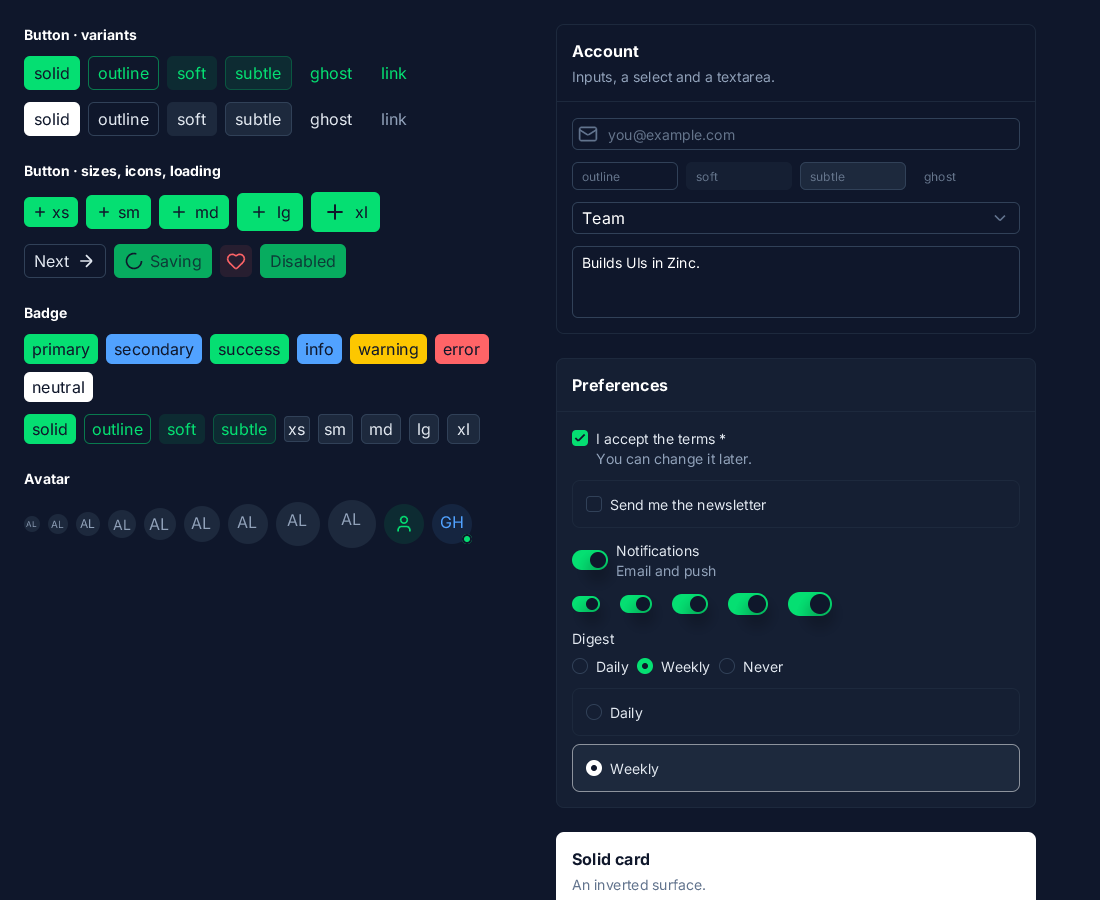
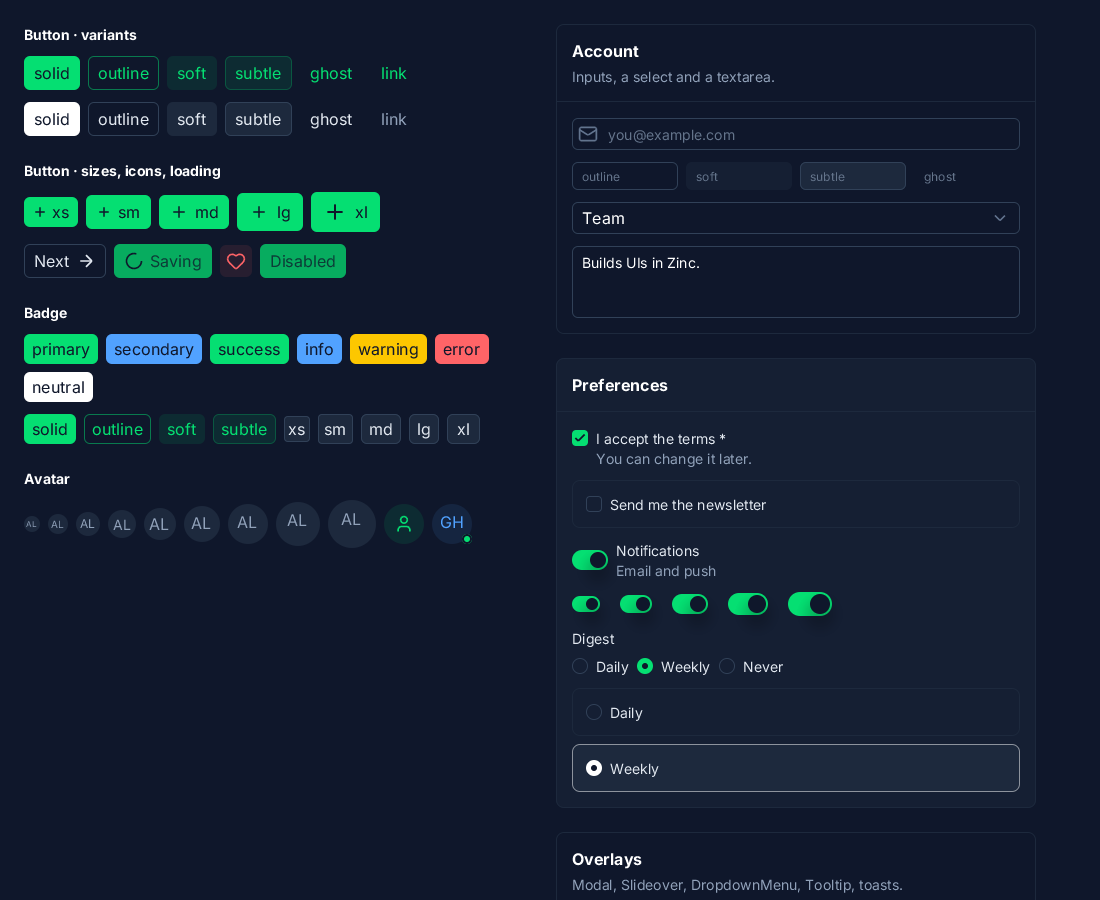
feat(ui): zinc:ui/nuxt overlays: Modal, Slideover, DropdownMenu, Tooltip, toasts

Changed region(s): [[0.4945, 0.9022, 0.9582, 1.0]]

diff --git a/lib/std/nuxt/overlays.tsx b/lib/std/nuxt/overlays.tsx
@@ -1,0 +1,173 @@
+/** @jsxHelpers ./host */
+// zinc:ui/nuxt, overlays (ZN-357.03): Modal, Slideover, DropdownMenu, Tooltip and toasts with Nuxt UI 4's look (docs/reports/nuxt-ui-research.md 3.13 to 3.17),
+// on zinc:ui's layers: each overlay stays mounted and toggles `hidden`, Escape and a press outside close it, a modal keeps the focus inside.
+import * as ui from 'zinc:ui';
+import { createNodeRef } from 'zinc:ui/solid';
+import { theme, hex, rounded } from './theme';
+import { rgb, buttonIconSize } from './variants';
+import { renderSlot } from './host';
+import { Button } from './controls';
+import { Icon } from 'zinc:icons';
+
+function shown(h: i32): boolean { const n = ui.inspectNode(h); return n !== null && !n.hidden; }
+function show(h: i32, on: boolean): void { if (h >= 0) ui.setNumber(h, 'hidden', on ? 0 : 1); }
+/** The node a component returned, through the fragment its caller may have wrapped it in. */
+function unwrap(h: i32): i32 { let k = h; for (;;) { const n = ui.inspectNode(k); if (n === null || n.tag !== ui.FRAGMENT || n.children.length !== 1) return k; k = n.children[0]; } }
+
+// ---------------------------------------------------------------- Modal, Slideover
+export type ModalProps = {
+  open: () => boolean; onUpdate: (open: boolean) => void; title?: string; description?: string; close?: boolean; dismissible?: boolean; fullscreen?: boolean;
+  class?: string; children?: () => i32; footer?: () => i32;
+};
+function renderHeader(p: ModalProps): i32 {
+  return <View class={`flex-row items-start gap-1.5 px-6 py-4 min-h-[64px] border-b border-${hex(theme().border)}`}>
+    <View class="flex-col grow">
+      <Show when={p.title !== undefined}><Text class={`font-semibold text-${hex(theme().textHighlighted)}`}>{p.title ?? ''}</Text></Show>
+      <Show when={p.description !== undefined}><Text class={`mt-1 text-sm text-${hex(theme().textMuted)}`}>{p.description ?? ''}</Text></Show>
+    </View>
+    <Show when={p.close ?? true}><Button icon="x" color="neutral" variant="ghost" size="md" onClick={() => p.onUpdate(false)} /></Show>
+  </View>;
+}
+/** Nuxt UI's UModal: a 512 px panel over the page dimmed with bg-elevated/75; Escape, a press outside (dismissible) and the close button ask onUpdate(false). */
+export function Modal(p: ModalProps): i32 {
+  const screen = createNodeRef(), panel = createNodeRef();
+  const ask = (): void => { if (p.dismissible ?? true) p.onUpdate(false); };
+  const full = p.fullscreen ?? false;
+  const node = <View ref={screen} class={`absolute left-0 top-0 right-0 bottom-0 ${full ? '' : 'items-center justify-center p-4'}`} hidden={p.open() ? 0 : 1}>
+    <View ref={panel} class={`flex-col bg-${hex(theme().bg)} ${full ? 'w-full h-full' : 'w-[512px] ' + rounded('lg') + ' shadow-lg border border-' + hex(theme().border)} ${p.class ?? ''}`}>
+      {renderHeader(p)}
+      <View class="flex-col p-6 gap-3">{renderSlot(p.children)}</View>
+      <Show when={p.footer !== undefined}><View class={`flex-row items-center justify-end gap-1.5 px-6 py-4 border-t border-${hex(theme().border)}`}>{renderSlot(p.footer)}</View></Show>
+    </View>
+  </View>;
+  ui.openLayer(screen.node, { priority: 200, modal: true, backdrop: rgb(theme().bgElevated), backdropAlpha: 191 });
+  ui.focusScope(screen.node, { trap: true, restore: true, autoFocus: true });
+  ui.onDismiss(screen.node, ask);
+  ui.onOutsidePointer(panel.node, (e: ui.PointerEvent) => ask());
+  return node;
+}
+
+export type SlideoverProps = {
+  open: () => boolean; onUpdate: (open: boolean) => void; title?: string; description?: string; side?: string; close?: boolean; dismissible?: boolean;
+  class?: string; children?: () => i32; footer?: () => i32;
+};
+/** Nuxt UI's USlideover: a panel against one side (right by default, 448 px wide on the sides), the rest dimmed; it closes like a Modal. */
+export function Slideover(p: SlideoverProps): i32 {
+  const screen = createNodeRef(), panel = createNodeRef();
+  const side = p.side ?? 'right';
+  const ask = (): void => { if (p.dismissible ?? true) p.onUpdate(false); };
+  const place = side === 'left' ? 'left-0 top-0 bottom-0 w-[448px]' : side === 'top' ? 'left-0 right-0 top-0' : side === 'bottom' ? 'left-0 right-0 bottom-0' : 'right-0 top-0 bottom-0 w-[448px]';
+  const mp: ModalProps = { open: p.open, onUpdate: p.onUpdate, title: p.title, description: p.description, close: p.close };
+  const node = <View ref={screen} class="absolute left-0 top-0 right-0 bottom-0" hidden={p.open() ? 0 : 1}>
+    <View ref={panel} class={`absolute flex-col bg-${hex(theme().bg)} shadow-lg border-${hex(theme().border)} ${side === 'left' ? 'border-r' : side === 'top' ? 'border-b' : side === 'bottom' ? 'border-t' : 'border-l'} ${place} ${p.class ?? ''}`}>
+      {renderHeader(mp)}
+      <View class="flex-col grow p-6 gap-3 overflow-auto">{renderSlot(p.children)}</View>
+      <Show when={p.footer !== undefined}><View class={`flex-row items-center gap-1.5 px-6 py-4 border-t border-${hex(theme().border)}`}>{renderSlot(p.footer)}</View></Show>
+    </View>
+  </View>;
+  ui.openLayer(screen.node, { priority: 200, modal: true, backdrop: rgb(theme().bgElevated), backdropAlpha: 191 });
+  ui.focusScope(screen.node, { trap: true, restore: true, autoFocus: true });
+  ui.onDismiss(screen.node, ask);
+  ui.onOutsidePointer(panel.node, (e: ui.PointerEvent) => ask());
+  return node;
+}
+
+// ---------------------------------------------------------------- DropdownMenu
+/** An entry of a menu: an action (label, icon, color, kbds, onSelect), a `type: 'label'` heading, or a checkbox (`type: 'checkbox'` with checked). */
+export type DropdownMenuItem = { label?: string; icon?: string; color?: string; kbds?: string[]; type?: string; checked?: () => boolean; disabled?: boolean; onSelect?: () => void };
+export type DropdownMenuProps = { items: DropdownMenuItem[][]; label?: string; icon?: string; color?: string; variant?: string; size?: string; placement?: string; class?: string };
+/** Nuxt UI's UDropdownMenu: a Button that opens groups of items (separated by a line) under it; Escape, a press outside or a choice close it. */
+export function DropdownMenu(p: DropdownMenuProps): i32 {
+  const trig = createNodeRef(), menu = createNodeRef();
+  const size = p.size ?? 'md';
+  const text = size === 'xs' || size === 'sm' ? 'text-xs' : size === 'xl' ? 'text-base' : 'text-sm';
+  const row = (it: DropdownMenuItem): i32 => {
+    const t = theme();
+    if (it.type === 'label') return <Text class={`p-1.5 ${text} font-semibold text-${hex(t.textHighlighted)}`}>{it.label ?? ''}</Text>;
+    const col = it.color !== undefined ? t.color(it.color as string) : t.text;
+    const ink = (): i32 => rgb(it.color !== undefined ? theme().color(it.color as string) : theme().textDimmed);
+    return <View class={`flex-row items-center gap-1.5 p-1.5 ${rounded('md')} ${it.disabled === true ? 'opacity-75' : 'hover:bg-' + (it.color !== undefined ? hex(col, 10) : hex(t.bgElevated, 50))}`}
+      onClick={() => { if (it.disabled === true) return; show(menu.node, false); const f = it.onSelect; if (f !== undefined) f(); }} role="menuitem">
+      <Show when={it.icon !== undefined}><Icon name={it.icon ?? ''} size={buttonIconSize(size)} color={ink} /></Show>
+      <Text class={`grow ${text} text-${hex(col)}`}>{it.label ?? ''}</Text>
+      <Show when={it.type === 'checkbox' && it.checked !== undefined && (it.checked as () => boolean)()}><Icon name="check" size={16} color={ink} /></Show>
+      <Show when={it.kbds !== undefined}><Text class={`text-xs px-1 ${rounded('sm')} bg-${hex(t.bgElevated)} text-${hex(t.textMuted)}`}>{(it.kbds ?? []).join(' ')}</Text></Show>
+    </View>;
+  };
+  const node = <View class={`flex-col ${p.class ?? ''}`}>
+    <View ref={trig} class="flex-row"><Button label={p.label} icon={p.icon} trailingIcon="chevron-down" color={p.color ?? 'neutral'} variant={p.variant ?? 'outline'} size={size}
+      onClick={() => show(menu.node, !shown(menu.node))} /></View>
+    <View ref={menu} hidden={1} class={`flex-col min-w-[128px] w-[208px] shadow-lg overflow-hidden ${rounded('md')} bg-${hex(theme().bg)} border border-${hex(theme().border)}`} role="menu">
+      <For each={p.items}>{(group: DropdownMenuItem[], g: i32) => <View class={`flex-col p-1 ${g > 0 ? 'border-t border-' + hex(theme().border) : ''}`}>
+        <For each={group}>{(it: DropdownMenuItem, i: i32) => row(it)}</For>
+      </View>}</For>
+    </View>
+  </View>;
+  ui.openLayer(menu.node, { priority: 100 });
+  ui.anchor(menu.node, trig.node, p.placement ?? 'bottom-start', 8);
+  ui.focusScope(menu.node, { trap: false, restore: true, autoFocus: true });
+  ui.onDismiss(menu.node, () => show(menu.node, false));
+  ui.onOutsidePointer(menu.node, (e: ui.PointerEvent) => show(menu.node, false), trig.node);
+  return node;
+}
+/** Whether the menu of a DropdownMenu (the node it returned, or a fragment around it) is open (tests). */
+export function isMenuOpen(dropdown: i32): boolean { const n = ui.inspectNode(unwrap(dropdown)); return n !== null && n.children.length > 1 && shown(n.children[1]); }
+
+// ---------------------------------------------------------------- Tooltip
+export type TooltipProps = { text: string; kbds?: string[]; placement?: string; delay?: number; class?: string; children: () => i32 };
+/** Nuxt UI's UTooltip: 24 px high, 12 px text, bg-default with a ring, under its children (side bottom, 8 px) after 700 ms of hover. */
+export function Tooltip(p: TooltipProps): i32 {
+  const wrap = createNodeRef(), tip = createNodeRef();
+  let timer: i32 = -1;
+  const node = <View ref={wrap} class={`flex-col ${p.class ?? ''}`}
+    onPointerEnter={(e: ui.PointerEvent) => { if (timer >= 0) clearTimeout(timer); timer = setTimeout(() => { timer = -1; show(tip.node, true); }, p.delay ?? 700); }}
+    onPointerLeave={(e: ui.PointerEvent) => { if (timer >= 0) clearTimeout(timer); timer = -1; show(tip.node, false); }}>
+    {p.children()}
+    <View ref={tip} hidden={1} class={`flex-row items-center gap-1 h-[24px] px-2.5 shadow-sm ${rounded('sm')} bg-${hex(theme().bg)} border border-${hex(theme().border)}`} role="tooltip">
+      <Text class={`text-xs text-${hex(theme().textHighlighted)}`}>{p.text}</Text>
+      <Show when={p.kbds !== undefined}><Text class={`text-xs text-${hex(theme().textMuted)}`}>{(p.kbds ?? []).join(' · ')}</Text></Show>
+    </View>
+  </View>;
+  ui.openLayer(tip.node, { priority: 300 });
+  ui.anchor(tip.node, wrap.node, p.placement ?? 'bottom', 8);
+  return node;
+}
+/** Shows the tooltip of a Tooltip node at once (tests, screenshots). */
+export function showTooltip(tooltip: i32, on: boolean): void { const n = ui.inspectNode(unwrap(tooltip)); if (n !== null && n.children.length > 1) show(n.children[n.children.length - 1], on); }
+
+// ---------------------------------------------------------------- toasts
+export type ToastOptions = { title?: string; description?: string; icon?: string; color?: string; duration?: number; progress?: boolean; actions?: string[]; onAction?: (label: string) => void };
+let toaster: i32 = -1;
+const live: i32[] = [];
+/** Nuxt UI's useToast().add: a toast at the bottom right (384 px wide, at most 5, newest last) for `duration` ms (5000) with a progress bar, a close button
+ *  and optional action buttons. */
+export function addToast(o: ToastOptions): void {
+  if (toaster < 0) {
+    toaster = ui.createNode(ui.VIEW);
+    ui.setClass(toaster, 'flex-col gap-2 right-4 bottom-4 w-[384px]');
+    ui.openLayer(toaster, { priority: 400 });
+  }
+  if (live.length >= 5) { ui.remove(toaster, live[0]); live.splice(0, 1); }
+  const t = theme(), ms = o.duration ?? 5000, color = o.color ?? 'primary';
+  const bar = createNodeRef();
+  let n: i32 = -1;
+  const close = (): void => { const i = live.indexOf(n); if (i < 0) return; live.splice(i, 1); ui.remove(toaster, n); };
+  n = <View class={`relative flex-row gap-2.5 p-4 overflow-hidden shadow-lg ${rounded('lg')} bg-${hex(t.bg)} border border-${hex(t.border)}`} role="status">
+    <Show when={o.icon !== undefined}><Icon name={o.icon ?? ''} size={20} color={() => rgb(color === 'neutral' ? theme().textHighlighted : theme().color(color))} /></Show>
+    <View class="flex-col grow">
+      <Show when={o.title !== undefined}><Text class={`text-sm font-medium text-${hex(t.textHighlighted)}`}>{o.title ?? ''}</Text></Show>
+      <Show when={o.description !== undefined}><Text class={`text-sm text-${hex(t.textMuted)} ${o.title !== undefined ? 'mt-1' : ''}`}>{o.description ?? ''}</Text></Show>
+      <Show when={o.actions !== undefined}><View class="flex-row gap-1.5 mt-2.5">
+        <For each={o.actions ?? []}>{(a: string, i: i32) => <Button label={a} size="xs" color={color} onClick={() => { const f = o.onAction; if (f !== undefined) f(a); close(); }} />}</For>
+      </View></Show>
+    </View>
+    <Button icon="x" color="neutral" variant="link" size="sm" onClick={close} />
+    <Show when={o.progress ?? true}><View ref={bar} class={`absolute left-0 bottom-0 h-[4px] w-[384px] bg-${hex(color === 'neutral' ? t.bgInverted : t.color(color))}`} /></Show>
+  </View>;
+  ui.insert(toaster, n, -1);
+  live.push(n);
+  if (bar.node >= 0) ui.animate(bar.node, 'width', 0, ms, 'linear', 0);
+  setTimeout(close, ms);
+}
+/** The toasts on screen (tests). */
+export function toastCount(): i32 { return live.length; }

diff --git a/examples/nuxt-ui/src/inspect.tsx b/examples/nuxt-ui/src/inspect.tsx
@@ -3,14 +3,36 @@ import * as ui from 'zinc:ui';
 import { render } from 'zinc:ui/solid';
 import { quit } from 'zinc:gfx';
 import { Gallery, clicks, email, bio, plan, planOpen, terms, news, notify, freq } from './gallery';
+import { modal, setModal, drawer, setDrawer, chosen, compact, menuRef, tipRef } from './overlays';
+import { isMenuOpen, toastCount, addToast } from 'zinc:ui/nuxt';
 
 function click(text: string): void { const h = ui.find(text); if (h >= 0) ui.click(h); else console.log(`no ${text}`); }
 function field(placeholder: string): i32 { for (let h = 0; h < 4000; h++) { const n = ui.inspectNode(h); if (n !== null && n.ed !== null && (n.ed as ui.Edit).placeholder === placeholder) return h; } return -1; }
+function tipNode(): ui.UiNode | null { let h = ui.childAt(tipRef.node, 0); while (ui.childCount(h) === 1) h = ui.childAt(h, 0); return ui.inspectNode(ui.childAt(h, ui.childCount(h) - 1)); }
 let f = 0;
 render(Gallery, 0xffffff, (dt: number) => {
   f++;
   if (f === 2) { click('solid'); click('outline'); click('Disabled'); click('Saving'); click('Send me the newsletter'); click('I accept the terms *'); click('Notifications'); click('Never'); click('Team'); }
   if (f === 3) { console.log(`after clicks: buttons ${clicks()} terms ${terms()} news ${news()} notify ${notify()} digest ${freq()} select open ${planOpen()}`); click('Enterprise'); }
   if (f === 4) { console.log(`select: ${plan()} open ${planOpen()}`); ui.typeText(field('you@example.com'), 'ada@zinc.dev'); ui.typeText(field(''), ' Loves maps.'); }
-  if (f === 5) { console.log(`typed: email ${email()} | bio ${bio()}`); quit(); }
+  if (f === 5) { console.log(`typed: email ${email()} | bio ${bio()}`); setModal(true); }
+  if (f === 7) { console.log(`modal open ${modal()}`); ui.sendKey('Escape'); }
+  if (f === 8) { console.log(`modal after Escape ${modal()}`); setModal(true); }
+  if (f === 10) { console.log(`modal reopened ${modal()}`); ui.pointerAt(5, 5, true); ui.pointerAt(5, 5, false); }
+  if (f === 11) { console.log(`modal after a press outside ${modal()}`); setDrawer(true); }
+  if (f === 13) { ui.sendKey('Escape'); }
+  if (f === 14) { console.log(`slideover after Escape ${drawer()}`); setDrawer(true); }
+  if (f === 16) { console.log(`slideover reopened ${drawer()}`); ui.pointerAt(5, 5, true); ui.pointerAt(5, 5, false); }
+  if (f === 17) { console.log(`slideover after a press outside ${drawer()}`); click('Actions'); }
+  if (f === 18) { console.log(`menu open ${isMenuOpen(ui.childAt(menuRef.node, 0))}`); ui.sendKey('Escape'); }
+  if (f === 19) { console.log(`menu after Escape ${isMenuOpen(ui.childAt(menuRef.node, 0))}`); click('Actions'); }
+  if (f === 20) { console.log(`menu reopened ${isMenuOpen(ui.childAt(menuRef.node, 0))}`); ui.pointerAt(5, 5, true); ui.pointerAt(5, 5, false); }
+  if (f === 21) { console.log(`menu after a press outside ${isMenuOpen(ui.childAt(menuRef.node, 0))}`); click('Actions'); }
+  if (f === 22) { click('Duplicate'); click('Actions'); }
+  if (f === 23) { click('Compact'); }
+  if (f === 24) { console.log(`menu choice ${chosen()} compact ${compact()} open ${isMenuOpen(ui.childAt(menuRef.node, 0))}`); const b = ui.screenBox(tipRef.node); ui.pointerAt(b[0] + 5, b[1] + 5, false); }
+  if (f === 70) { const tip = tipNode(); console.log(`tooltip after 700 ms of hover ${tip !== null && !tip.hidden}`); ui.pointerAt(5, 5, false); }
+  if (f === 72) { const tip = tipNode(); console.log(`tooltip after leaving ${tip !== null && !tip.hidden}`); addToast({ title: 'Saved' }); }
+  if (f === 73) { console.log(`toasts ${toastCount()}`); }
+  if (f === 74) { quit(); }
 });

diff --git a/examples/nuxt-ui/src/overlays.tsx b/examples/nuxt-ui/src/overlays.tsx
@@ -1,0 +1,45 @@
+// The overlays of zinc:ui/nuxt (ZN-357.03): Modal, Slideover, DropdownMenu, Tooltip and toasts. NUXT_OPEN=modal|slideover|menu|tooltip|toast opens one
+// at start (screenshots).
+import * as ui from 'zinc:ui';
+import { createSignal, createNodeRef } from 'zinc:ui/solid';
+import { theme, hex, Button, Card, Input, Modal, Slideover, DropdownMenu, Tooltip, showTooltip, addToast } from 'zinc:ui/nuxt';
+
+export const [modal, setModal] = createSignal<boolean>(false);
+export const [drawer, setDrawer] = createSignal<boolean>(false);
+export const [chosen, setChosen] = createSignal<string>('-');
+export const [compact, setCompact] = createSignal<boolean>(false);
+export const menuRef = createNodeRef(), tipRef = createNodeRef();
+
+export function Overlays(): i32 {
+  return <Card title="Overlays" description="Modal, Slideover, DropdownMenu, Tooltip, toasts.">
+    <View class="flex-row gap-2 flex-wrap items-start">
+      <Button label="Open modal" onClick={() => setModal(true)} />
+      <Button label="Open slideover" icon="panel-right" color="neutral" variant="outline" onClick={() => setDrawer(true)} />
+      <View ref={menuRef} class="flex-col"><DropdownMenu label="Actions" items={[
+        [{ label: 'My account', type: 'label' }, { label: 'Edit', icon: 'pencil', kbds: ['E'], onSelect: () => setChosen('edit') }, { label: 'Duplicate', icon: 'copy', onSelect: () => setChosen('duplicate') }],
+        [{ label: 'Compact', type: 'checkbox', checked: compact, onSelect: () => setCompact(!compact()) }],
+        [{ label: 'Delete', icon: 'trash-2', color: 'error', onSelect: () => setChosen('delete') }]]} /></View>
+      <View ref={tipRef} class="flex-col"><Tooltip text="Copy to clipboard" kbds={['⌘', 'C']}><Button icon="copy" color="neutral" variant="ghost" /></Tooltip></View>
+      <Button label="Toast" color="success" variant="soft" icon="circle-check" onClick={() => addToast({ title: 'Saved', description: 'Your changes are stored.', icon: 'circle-check', color: 'success', actions: ['Undo'] })} />
+    </View>
+    <Text class={`text-sm text-${hex(theme().textMuted)}`}>{`menu choice: ${chosen()} · compact ${compact()}`}</Text>
+    <Modal open={modal} onUpdate={setModal} title="Invite a member" description="They will get an email with a link." footer={() => <View class="flex-row gap-1.5">
+      <Button label="Cancel" color="neutral" variant="outline" onClick={() => setModal(false)} /><Button label="Send invite" onClick={() => setModal(false)} />
+    </View>}>
+      <Input placeholder="name@example.com" icon="mail" />
+    </Modal>
+    <Slideover open={drawer} onUpdate={setDrawer} title="Notifications" description="The last ones.">
+      <Text class={`text-sm text-${hex(theme().text)}`}>Ada commented on your pull request.</Text>
+      <Text class={`text-sm text-${hex(theme().text)}`}>Grace merged “compiler: COBOL”.</Text>
+    </Slideover>
+  </Card>;
+}
+
+/** NUXT_OPEN: the overlay to show at start. */
+export function openAtStart(what: string): void {
+  if (what === 'modal') setModal(true);
+  if (what === 'slideover') setDrawer(true);
+  if (what === 'menu') { const h = ui.find('Actions'); if (h >= 0) ui.click(h); }
+  if (what === 'tooltip') showTooltip(ui.inspectNode(tipRef.node) !== null ? (ui.inspectNode(tipRef.node) as ui.UiNode).children[0] : -1, true);
+  if (what === 'toast') addToast({ title: 'Saved', description: 'Your changes are stored.', icon: 'circle-check', color: 'success', actions: ['Undo'] });
+}

diff --git a/examples/nuxt-ui/src/gallery.tsx b/examples/nuxt-ui/src/gallery.tsx
@@ -1,5 +1,6 @@
 // The gallery of zinc:ui/nuxt (ZN-357.02): every component with its variants, sizes and colours, in the light or the dark scheme.
 import { createSignal, For } from 'zinc:ui/solid';
+import { Overlays } from './overlays';
 import { theme, hex, Button, Badge, Avatar, Card, Input, Textarea, Select, Checkbox, Switch, RadioGroup } from 'zinc:ui/nuxt';
 
 const VARIANTS = ['solid', 'outline', 'soft', 'subtle', 'ghost', 'link'];
@@ -81,6 +82,7 @@ export function Gallery(): i32 {
         <RadioGroup legend="Digest" items={['Daily', 'Weekly', 'Never']} modelValue={freq} onUpdate={setFreq} orientation="horizontal" />
         <RadioGroup items={['Daily', 'Weekly']} modelValue={freq} onUpdate={setFreq} variant="card" color="neutral" />
       </Card>
+      <Overlays />
       <Card variant="solid" title="Solid card" description="An inverted surface." />
     </View>
   </View>;

diff --git a/lib/std/nuxt/index.ts b/lib/std/nuxt/index.ts
@@ -2,4 +2,6 @@
 // ZN-357.02 (forms and display), .03 (overlays) and .04 (navigation and data). Mapping and gaps: docs/nuxt-ui.md. Licence notices: NOTICE.md.
 export { PALETTES, shade, NuxtColors, COLOR_NAMES, NuxtTheme, makeTheme, hex, radius, rounded, theme, colorMode, setColorMode, setColors } from './theme';
 export { Button, ButtonProps, Badge, BadgeProps, Avatar, AvatarProps, Card, CardProps, Input, InputProps, Textarea, TextareaProps, Select, SelectProps, Checkbox,
-  CheckboxProps, Switch, SwitchProps, RadioGroup, RadioGroupProps } from './components';
+  CheckboxProps, Switch, SwitchProps, RadioGroup, RadioGroupProps } from './controls';
+export { Modal, ModalProps, Slideover, SlideoverProps, DropdownMenu, DropdownMenuItem, DropdownMenuProps, isMenuOpen, Tooltip, TooltipProps, showTooltip, addToast,
+  ToastOptions, toastCount } from './overlays';

diff --git a/examples/nuxt-ui/src/main.tsx b/examples/nuxt-ui/src/main.tsx
@@ -3,9 +3,11 @@ import { render } from 'zinc:ui/solid';
 import { env } from 'zinc:sys';
 import { theme, setColorMode, hex } from 'zinc:ui/nuxt';
 import { Gallery } from './gallery';
+import { openAtStart } from './overlays';
 
 if (env('NUXT_SCHEME') === 'dark') setColorMode('dark');
 function App(): i32 {
   return <View class={`w-full h-full overflow-auto bg-${hex(theme().bg)}`}><Gallery /></View>;
 }
-render(App, 0xffffff, null);
+let frames = 0;
+render(App, 0xffffff, (dt: number) => { if (++frames === 2) openAtStart(env('NUXT_OPEN')); });

diff --git a/docs/nuxt-ui.md b/docs/nuxt-ui.md
@@ -44,17 +44,17 @@ The props keep Nuxt UI's names and defaults (`color`, `variant`, `size`, `label`
 | Card (done) | outline, soft, subtle, solid; header, body, footer | ZN-357.02 | |
 | Input (done) | outline, soft, subtle, ghost, none; xs..xl; leading / trailing icon | ZN-357.02 | 16 px text below 768 px (Nuxt UI's responsive size) |
 | Textarea (done) | as Input; `rows`, `autoresize`, `maxrows` | ZN-357.02 | autoresize from the field's line count |
-| Select (trigger and list done) | as Input; items, placeholder | ZN-357.02 (field), ZN-357.03 (popup) | the popup on zinc:ui's anchored floats (flip and margin); typeahead |
+| Select (trigger and inline list done; a layer later) | as Input; items, placeholder | ZN-357.02 (field), ZN-357.03 (popup) | the popup on zinc:ui's anchored floats (flip and margin); typeahead |
 | Checkbox (done) | xs..xl; indeterminate; label, description | ZN-357.02 | |
 | Switch (done) | xs..xl (md 36 x 20, thumb 16); loading | ZN-357.02 | thumb animation 200 ms |
 | RadioGroup (done) | list, card, table variants; xs..xl; orientation | ZN-357.02 | arrow keys move the choice |
 | Tabs | pill, link; xs..xl; horizontal / vertical | ZN-357.04 | the indicator measured from the trigger boxes (screenBox) |
 | Accordion | single / multiple, collapsible | ZN-357.04 | height animation to the content's measured height |
-| Modal | fullscreen, dismissible, overlay | ZN-357.03 | zinc:ui layers for the portal; focus kept inside; Escape and outside click |
-| Slideover | side top / right / bottom / left | ZN-357.03 | slide-in keyframes: ZN-275 |
-| DropdownMenu | items with icons, kbds, checkbox items, submenus | ZN-357.03 | anchored float; submenu pointer grace |
-| Tooltip | delay, side | ZN-357.03 | 24 px high, 100 ms |
-| Toast / Toaster | color, title, description, actions, duration, progress | ZN-357.03 | queue of 5, stacked, pause on hover; swipe through onDrag |
+| Modal (done) | fullscreen, dismissible, overlay | ZN-357.03 | zinc:ui layers for the portal; focus kept inside; Escape and outside click |
+| Slideover (done) | side top / right / bottom / left | ZN-357.03 | slide-in keyframes: ZN-275 |
+| DropdownMenu (done) | items with icons, kbds, checkbox items, submenus | ZN-357.03 | anchored float; submenu pointer grace |
+| Tooltip (done) | delay, side | ZN-357.03 | 24 px high, 100 ms |
+| Toast / Toaster (done) | color, title, description, actions, duration, progress | ZN-357.03 | queue of 5, stacked, pause on hover; swipe through onDrag |
 | Table | columns, sorting, row selection, sticky header, loading bar | ZN-357.04 | large data through VirtualList |
 | Pagination | page, total, items-per-page, sibling-count | ZN-357.04 | outline neutral buttons, the current page a solid primary button (Nuxt UI's own composition) |
 | Breadcrumb | items with icons, separator | ZN-357.04 | |

diff --git a/next/backlog/tasks/zn-357.03 - Nuxt-UI-kit-overlays.md b/next/backlog/tasks/zn-357.03 - Nuxt-UI-kit-overlays.md
@@ -1,9 +1,10 @@
 ---
 id: ZN-357.03
 title: 'Nuxt UI kit: overlays'
-status: Backlog
+status: Done
 assignee: []
 created_date: '2026-10-08 18:40'
+updated_date: '2026-10-08 21:26'
 labels:
   - ui
   - examples
@@ -23,6 +24,14 @@ Modal, Slideover, DropdownMenu, Tooltip, Toast on zinc:ui layers/overlays, with 
 
 ## Acceptance Criteria
 <!-- AC:BEGIN -->
-- [ ] #1 each overlay opens, closes on Escape and outside click (test)
-- [ ] #2 gallery entries in light and dark (golden)
+- [x] #1 each overlay opens, closes on Escape and outside click (test)
+- [x] #2 gallery entries in light and dark (golden)
 <!-- AC:END -->
+
+## Implementation Notes
+
+<!-- SECTION:NOTES:BEGIN -->
+usage: n/a
+Done: lib/std/nuxt/overlays.tsx (Modal: 512 px panel over bg-elevated/75, header with title, description and the close button, body, footer, fullscreen, dismissible; Slideover on any side; DropdownMenu with groups, labels, icons, colours, kbds, checkbox items, anchored with flip; Tooltip 24 px after 700 ms; addToast: bottom-right stack of 5 with icon, actions, close and a progress bar). Each on zinc:ui layers: Escape and a press outside close it, modals trap the focus. components.tsx renamed controls.tsx (a module path with 'components' makes JSX names host elements). examples/nuxt-ui gains an Overlays card, NUXT_OPEN to open one at start, 5 more screenshots; tests/t1/nuxt_ui.sh: 7 frame hashes and open / Escape / press outside / choice / hover checks. tests/run --changed 42/42.
+Limits: overlays appear without Nuxt's scale-in / slide animations (ZN-275); toasts have no swipe-to-dismiss nor stacking collapse; menus have no submenus nor typeahead.
+<!-- SECTION:NOTES:END -->

diff --git a/examples/nuxt-ui/README.md b/examples/nuxt-ui/README.md
@@ -1,12 +1,16 @@
 # nuxt-ui
 
 The demo of `zinc:ui/nuxt`, a component kit with the look of [Nuxt UI 4](https://ui.nuxt.com) (ZN-357, decision D38). Today: the gallery of the form and
-display components (ZN-357.02) with their variants, sizes and colours, in the light and the dark scheme. Overlays (ZN-357.03), navigation and data
-(ZN-357.04) and the dashboard app (ZN-357.05) come next. Mapping and gaps: `docs/nuxt-ui.md`.
+display components (ZN-357.02) with their variants, sizes and colours, and the overlays (ZN-357.03: Modal, Slideover, DropdownMenu, Tooltip, toasts),
+in the light and the dark scheme. Navigation and data (ZN-357.04) and the dashboard app (ZN-357.05) come next. Mapping and gaps: `docs/nuxt-ui.md`.
 
     zinc run examples/nuxt-ui
     NUXT_SCHEME=dark zinc run examples/nuxt-ui
+    NUXT_OPEN=modal zinc run examples/nuxt-ui        # or slideover, menu, tooltip, toast
 
 | Light | Dark |
 |---|---|
 | ![gallery](screenshots/gallery.png) | ![gallery dark](screenshots/gallery-dark.png) |
+| ![modal](screenshots/modal.png) | ![modal dark](screenshots/modal-dark.png) |
+| ![slideover](screenshots/slideover.png) | ![menu](screenshots/menu.png) |
+| ![toast](screenshots/toast.png) | |
